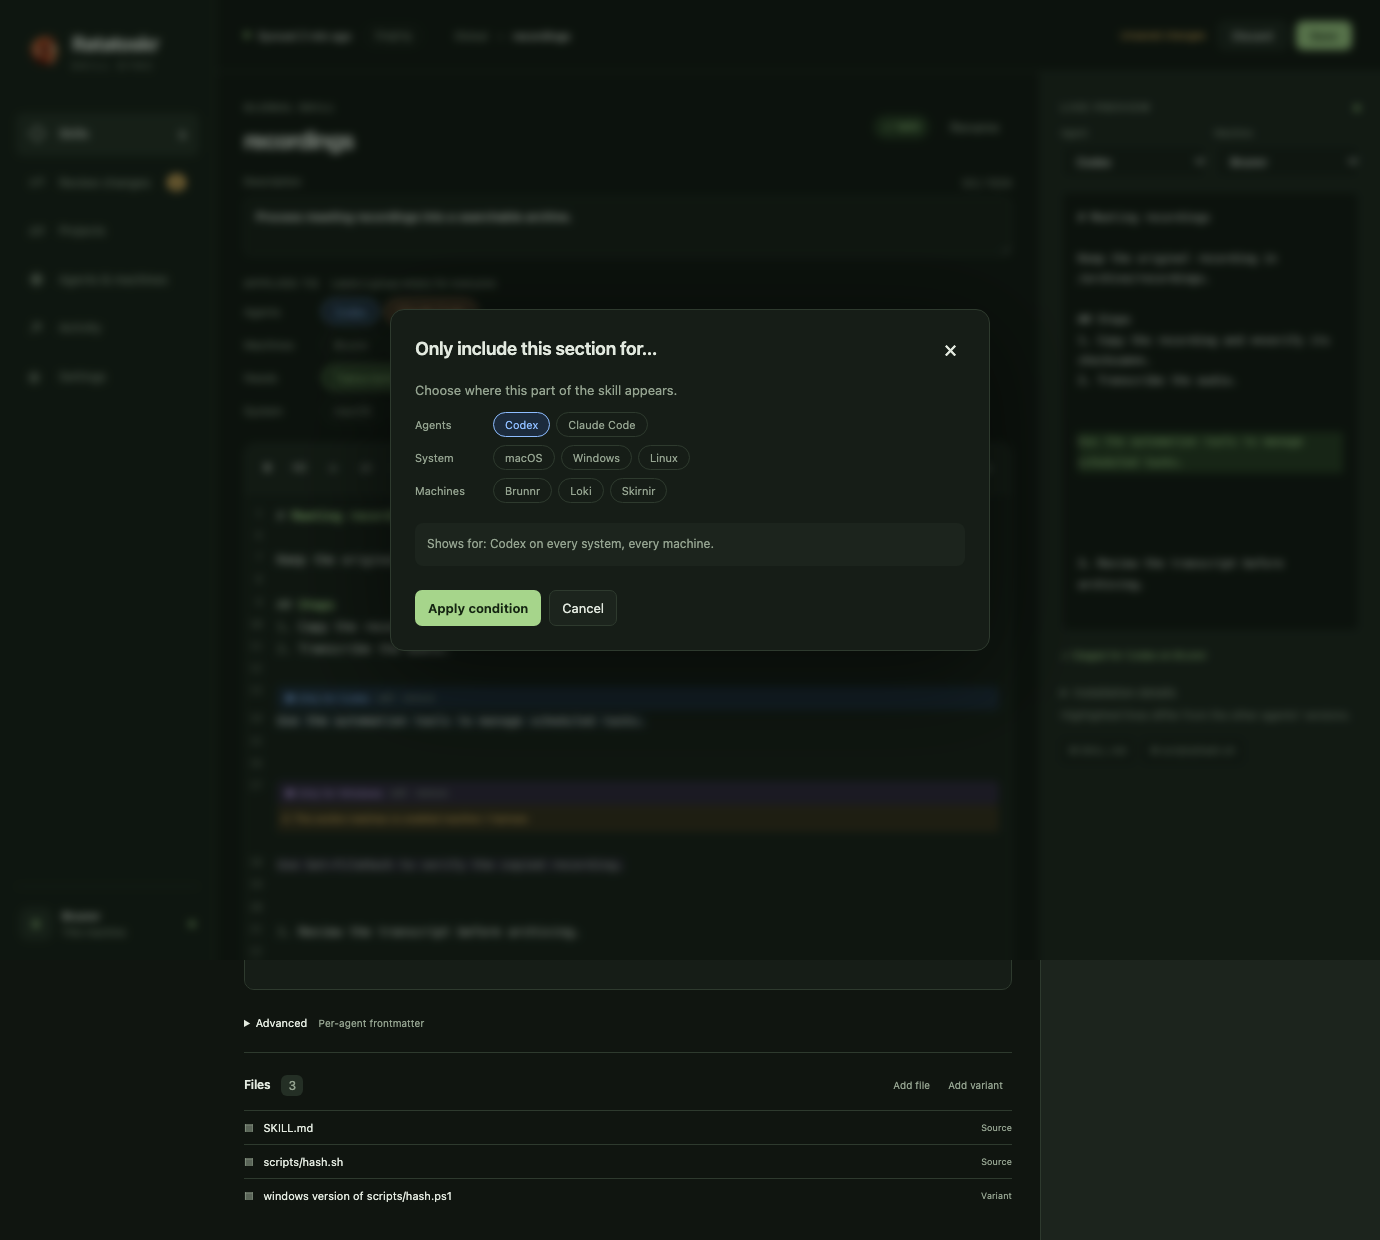
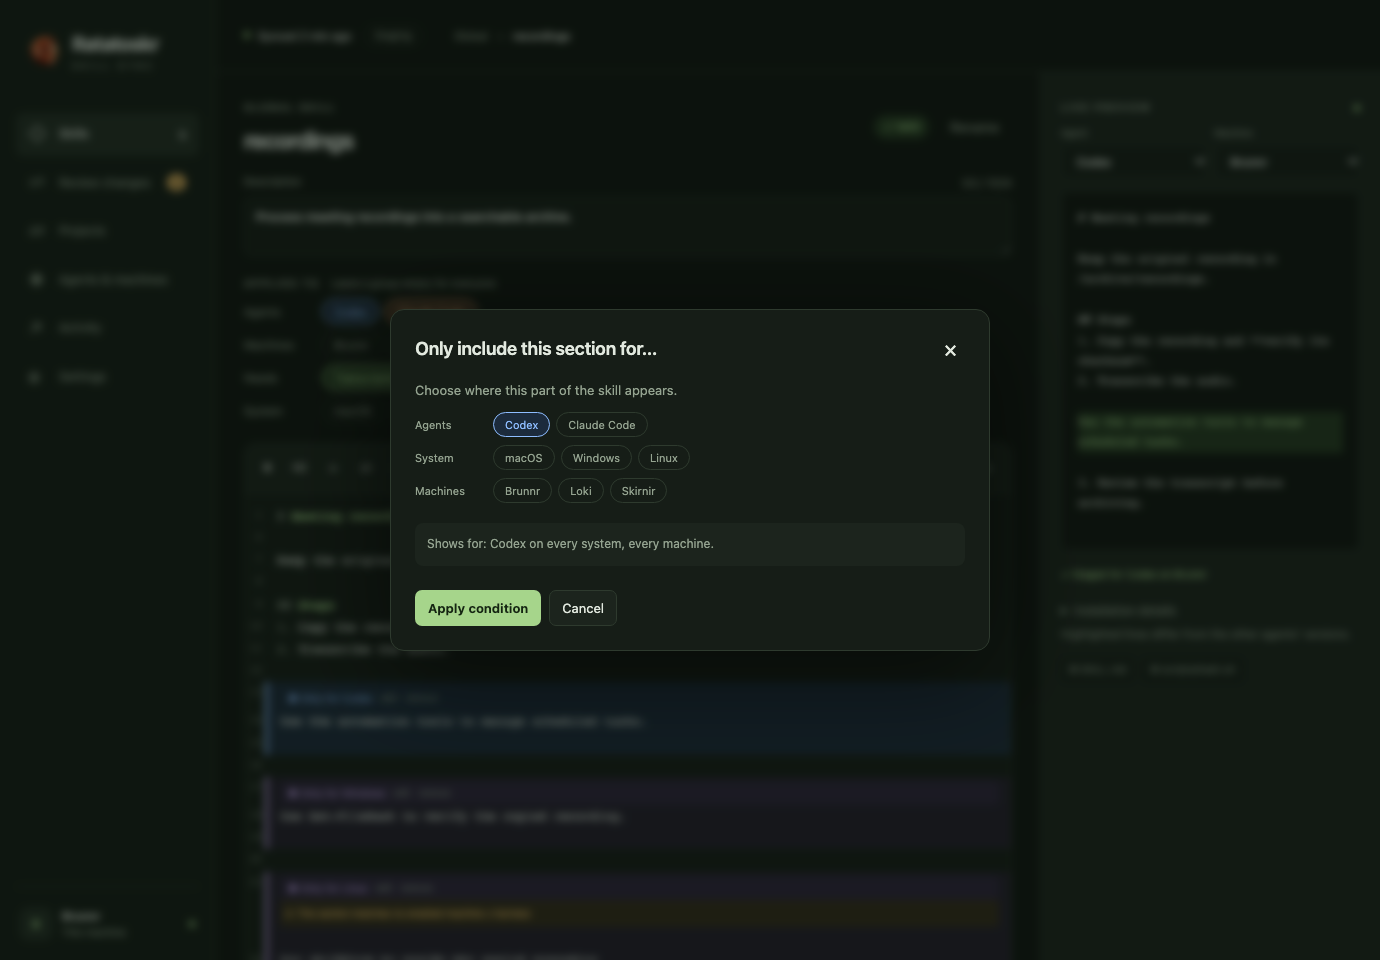
docs(desktop): refresh dark-only screenshots and workflow notes

diff --git a/docs/desktop-ui.md b/docs/desktop-ui.md
@@ -5,14 +5,14 @@ The old single-template vanilla TypeScript UI has been replaced by Svelte 5 comp
 ## Everyday workflow
 
 1. **Skills:** search the library, select a scope, enable/disable a skill, or create one. Target dots mean inclusion across configured profiles for that agent; they are not a claim that every machine is currently online or synced.
-2. **Skill editor:** edit the description, targeting chips and Markdown. The toolbar formats text, wraps selections in conditions, and inserts machine values. Each condition header can edit or remove its markers while keeping the body. A warning marks sections matching no enabled target. Use the agent × machine selectors to compare Rust-rendered output. Installation details show the actual destination; source and destination are never written during preview.
-3. **Review changes:** inspect side-by-side diffs, resolve installed edits with a preview and backup, then Apply the exact reviewed plan. Edit source opens the mapped source, including variants, and uses the core's validated source-edit resolution. Copy-back stays disabled when templates make reversal ambiguous.
+2. **Skill editor:** edit the description, targeting chips and Markdown. The toolbar formats text, wraps selections in conditions, and inserts machine values. Every line inside a condition has a coloured band. Each condition header can edit or remove its markers while keeping the body. A warning marks sections matching no enabled target. Use the agent × machine selectors to compare Rust-rendered output. Installation details show the actual destination; source and destination are never written during preview.
+3. **Review changes:** inspect dimmed context and word-level side-by-side diffs (source on the left), resolve installed edits with a preview and backup, then Apply the exact reviewed plan. Edit source opens the mapped source, including variants, and uses the core's validated source-edit resolution. Copy-back stays disabled when templates make reversal ambiguous.
 4. **Projects:** pick a folder, select its relative content folder and monitor source-only Git status. Removing monitoring preserves project files.
 5. **Agents & machines:** add a documented preset or custom agent, edit folders and instructions, and configure system, install mode, enabled agents, capabilities and named path values for each profile.
 6. **Activity:** inspect completion/result/errors, auto-detected helper, bounded logs and a previewed background schedule.
 7. **Settings:** configure signed nightly updates, login startup and ready-made alerts.
 
-Save/Discard are always in the top bar. Navigation and native close ask before abandoning drafts. Every open form/dialog, queued edit and active mutation blocks automatic installation/restart. Startup update decisions finish before the workspace becomes interactive. Errors are visible; failed saves keep drafts open.
+Save/Discard appear in the top bar only for editable, unsaved changes in the skill editor, machine/agent forms or Settings. Navigation and native close ask before abandoning drafts. Every open form/dialog, queued edit and active mutation blocks automatic installation/restart. Startup update decisions finish before the workspace becomes interactive. Errors are visible; failed saves keep drafts open.
 
 ## Source preservation
 
@@ -22,7 +22,7 @@ Core edits use shared template-parser ranges. YAML scalar ranges come from a con
 
 ## Decisions where the mockup was silent
 
-- System appearance uses CSS `prefers-color-scheme`, without a second theme setting.
+- The app is dark-only, including native window chrome and the initial webview background.
 - Empty targeting groups mean unrestricted; capabilities require every selected capability. This matches the existing core semantics.
 - Preview differences use Rust line alignment, so omitted blocks do not falsely mark identical later lines.
 - Rendering is shown as readable monospaced Markdown, with the YAML header hidden by the core. Source mode remains available in the editor.
@@ -35,4 +35,4 @@ Core edits use shared template-parser ranges. YAML scalar ranges come from a con
 
 `npm test` runs existing async-update tests plus Vitest/Testing Library components and CodeMirror byte round trips. `prepare:fixtures` builds the public Rust fixture oracle. Tests mock Tauri IPC; parsing, commands and previews still run through the real Rust core in disposable directories.
 
-`npm run test:screenshots` runs Playwright in both system themes and writes every main screen to `docs/screenshots/`. It asserts the editor's condition header, value pill, inline unreachable-section warning and live preview, then routes through all screens and rejects page errors. The fixture is public synthetic data, not a snapshot of a personal content repository. Native dialogs, real login registration, live OS notifications, and installed update/relaunch behavior require platform acceptance testing.
+`npm run test:screenshots` runs Playwright for the dark-only app and writes every main screen to `docs/screenshots/`. It asserts the editor's condition header, value pill, inline unreachable-section warning and live preview, then routes through all screens and rejects page errors. The fixture is public synthetic data, not a snapshot of a personal content repository. Native dialogs, real login registration, live OS notifications, and installed update/relaunch behavior require platform acceptance testing.

diff --git a/docs/screenshots/README.md b/docs/screenshots/README.md
@@ -1,51 +1,35 @@
 # Desktop screenshots
 
-Generated by `cd desktop && npm run test:screenshots` using disposable Rust fixtures and mocked Tauri IPC. Both themes follow the browser OS preference.
+Generated by `cd desktop && npm run test:screenshots` using disposable Rust fixtures and mocked Tauri IPC. The app is dark-only. Eight screenshots cover every main screen and the Only-for picker; longer panes use a taller viewport so the full shell and form remain visible.
 
 ## Skills
-
-![Skills, light](skills-light.png)
 
 ![Skills, dark](skills-dark.png)
 
 ## Skill editor
 
-![Skill editor, light](skill-editor-light.png)
-
 ![Skill editor, dark](skill-editor-dark.png)
 
 ## Only-for picker
-
-![Only-for picker, light](only-for-picker-light.png)
 
 ![Only-for picker, dark](only-for-picker-dark.png)
 
 ## Review changes
 
-![Review changes, light](review-changes-light.png)
-
 ![Review changes, dark](review-changes-dark.png)
 
 ## Projects
-
-![Projects, light](projects-light.png)
 
 ![Projects, dark](projects-dark.png)
 
 ## Agents & machines
 
-![Agents & machines, light](agents-machines-light.png)
-
 ![Agents & machines, dark](agents-machines-dark.png)
 
 ## Activity
 
-![Activity, light](activity-light.png)
-
 ![Activity, dark](activity-dark.png)
 
 ## Settings
-
-![Settings, light](settings-light.png)
 
 ![Settings, dark](settings-dark.png)

diff --git a/docs/desktop-api.md b/docs/desktop-api.md
@@ -58,3 +58,5 @@ Snapshots include `legacy` duplicates when an enabled local Codex profile instal
 ## Structured alert settings
 
 Local settings support optional `[alert]` with `kind = "system"`, `"pushover"` (`token_env`, `user_env`), or `"ntfy"` (`url`, optional `token_env`). Custom commands continue to use `alert_command` argv with no shell. Delivery failures preserve retryable ledger state.
+
+`update_desktop({install})` returns `{message, available, installed}` from the native updater. Settings offers installation only after an available result and restart only after a successful installation; it does not infer state from the message text.
